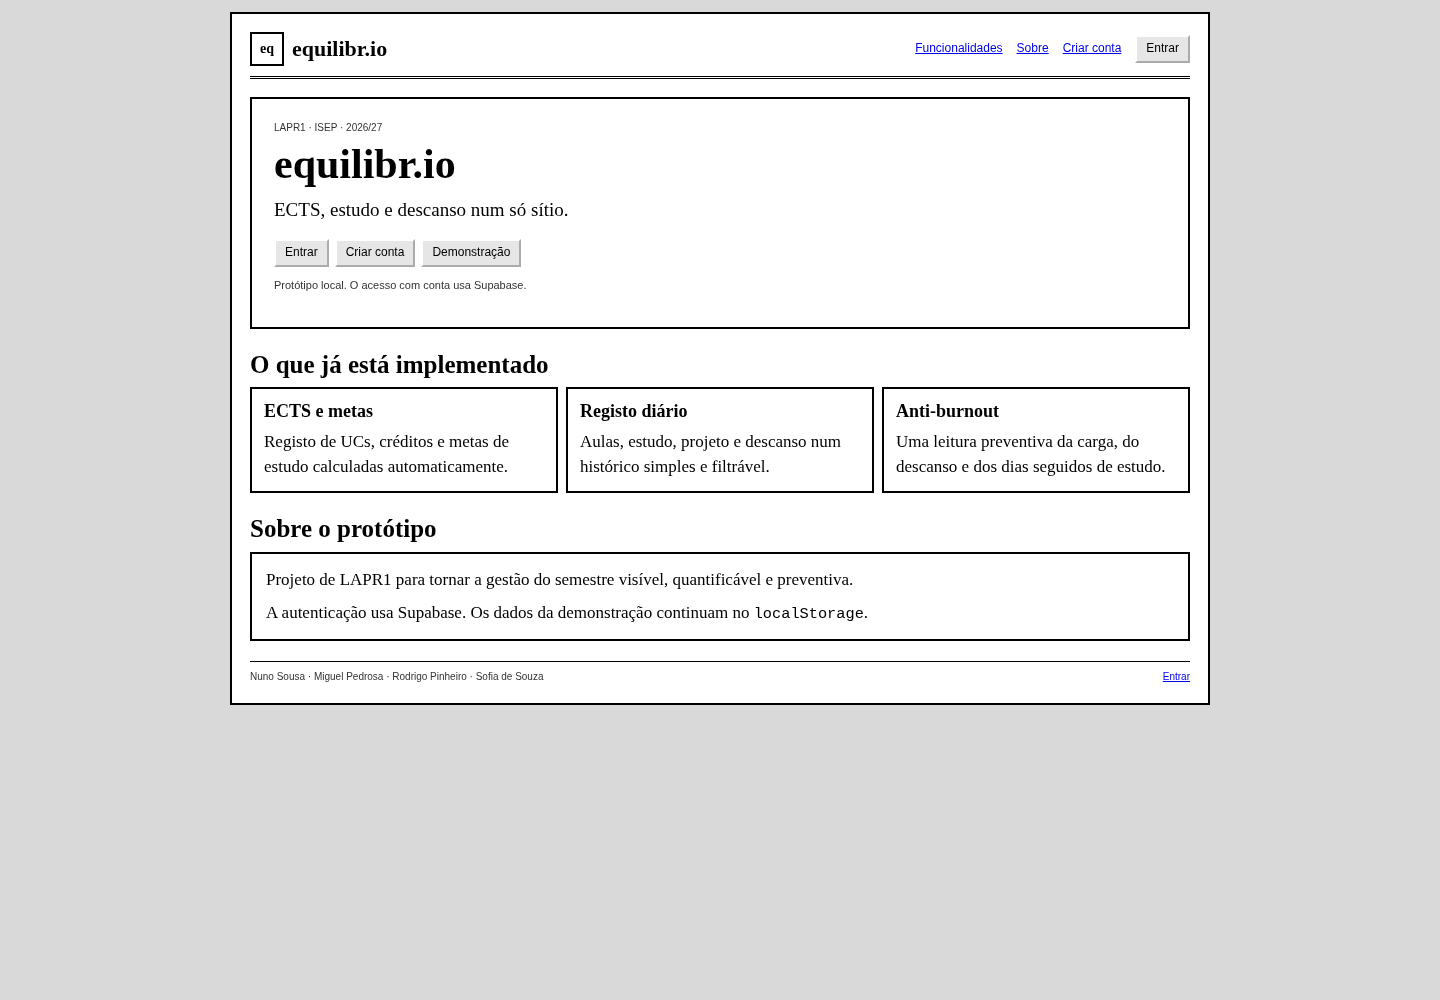
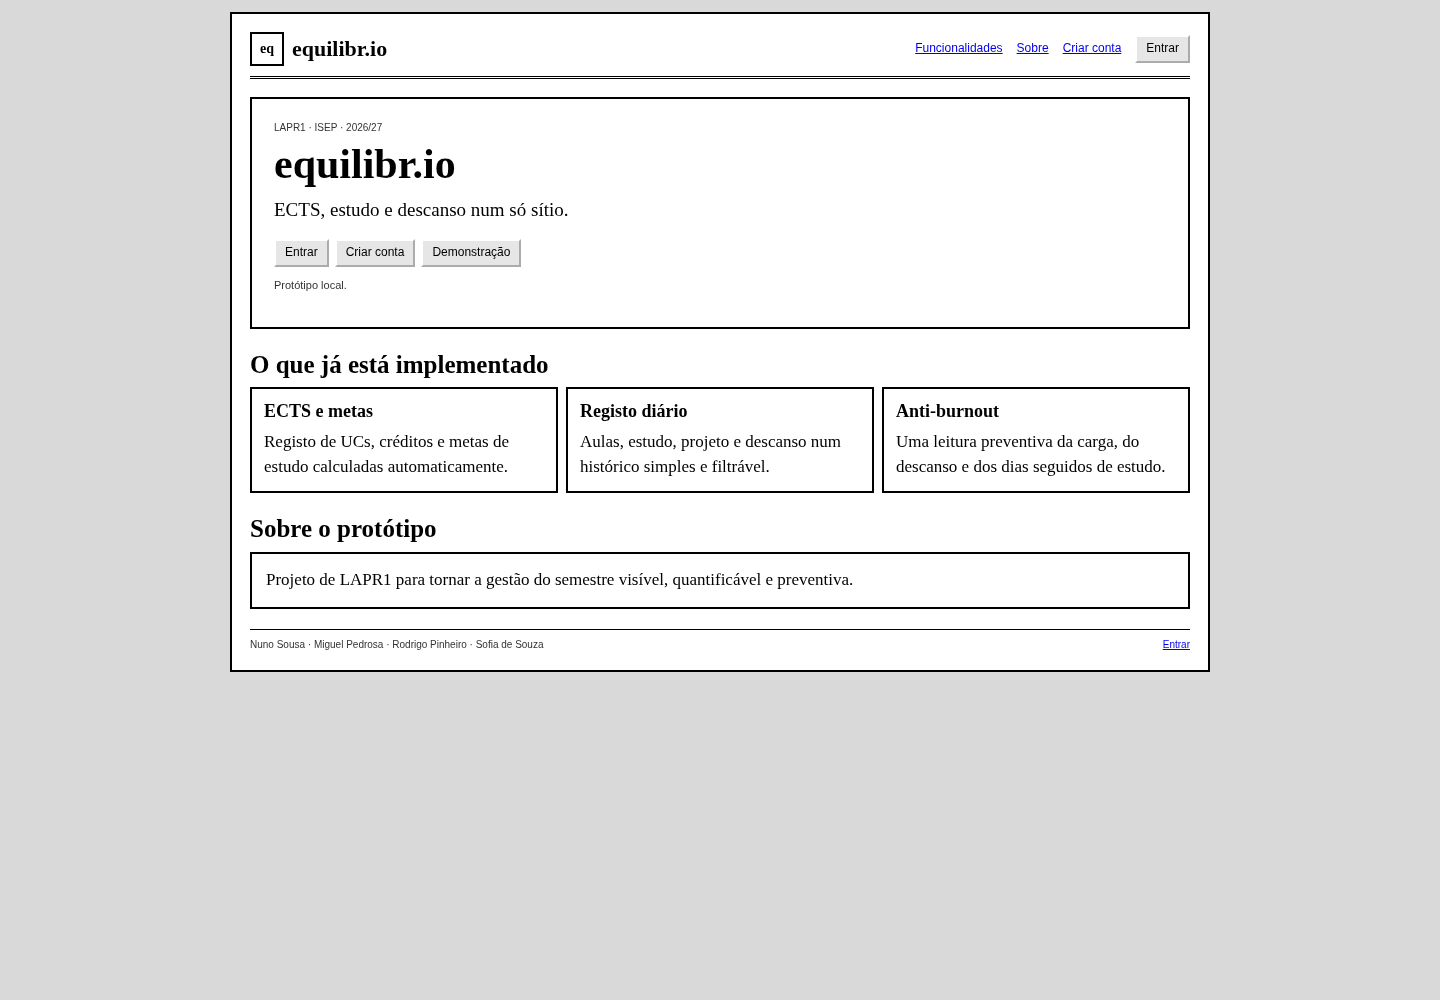
content: remover referências ao Supabase da página inicial

Changed region(s): [[0.1562, 0.589, 0.8438, 0.713], [0.25, 0.279, 0.3438, 0.31]]

diff --git a/index.html b/index.html
@@ -40,7 +40,7 @@
             <a class="button" href="register.html">Criar conta</a>
             <a class="button" href="app.html#dashboard">Demonstração</a>
           </p>
-          <p class="small">Protótipo local. O acesso com conta usa Supabase.</p>
+          <p class="small">Protótipo local.</p>
         </section>
 
         <section id="funcionalidades" class="section">
@@ -66,10 +66,6 @@
           <div class="box">
             <p>
               Projeto de LAPR1 para tornar a gestão do semestre visível, quantificável e preventiva.
-            </p>
-            <p>
-              A autenticação usa Supabase. Os dados da demonstração continuam no
-              <code>localStorage</code>.
             </p>
           </div>
         </section>
